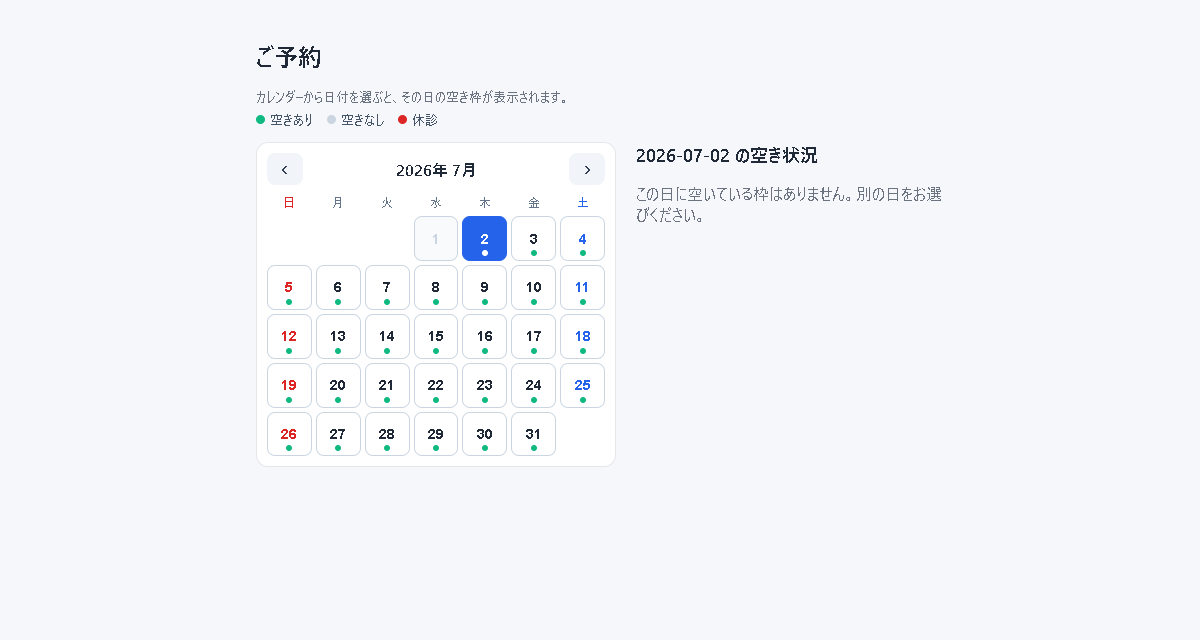
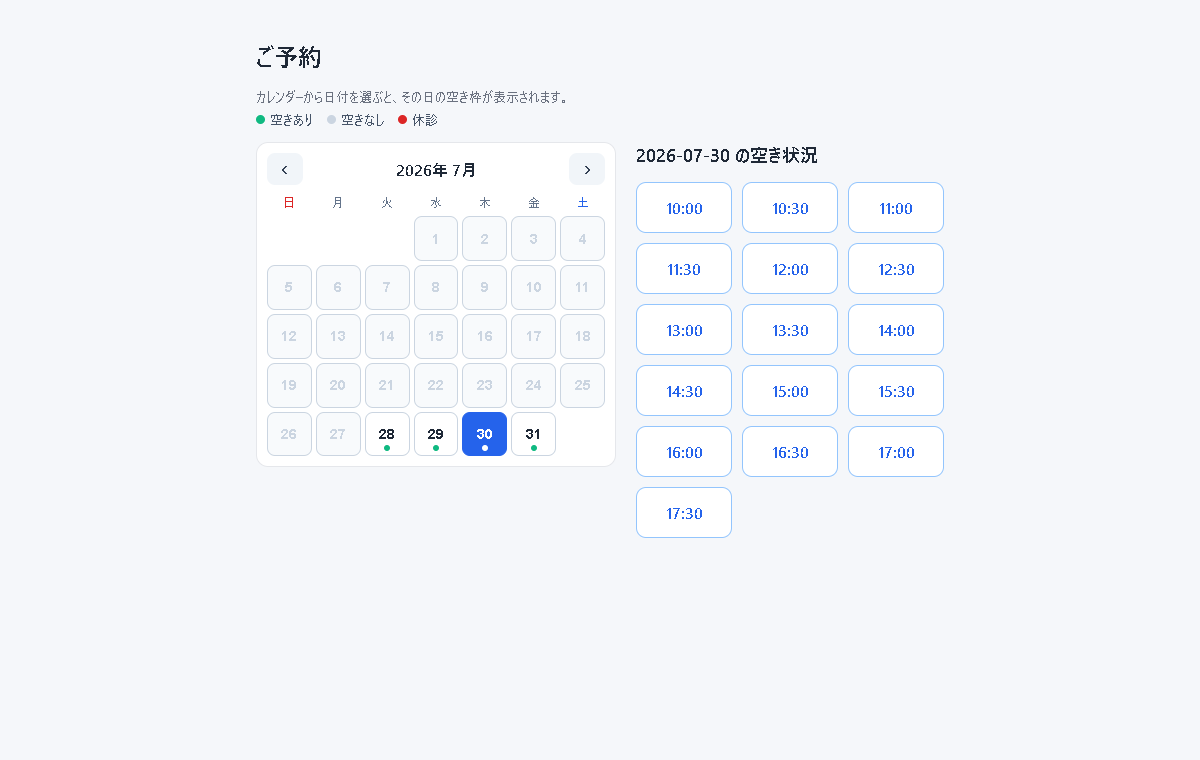
docs: README を現状に更新（予約カレンダー・構成図・デコイの説明）
- 主な機能に「公開予約カレンダー」「休業・枠ふさぎ」「多層防御」を追記
- 設定節のパス誤りを修正: src/config.php → src/core/config.php
- ディレクトリ構成を実態へ更新（api/availability.php・assets/calendar.js・
  src/core/{reservations,closures,view,honeypot}.php・src/auth/{rate_limit,totp}.php）
- public/ のデコイ（wp-login.php 等）は WordPress の残骸ではなく意図的な罠である旨を明記
- データ構造に day_overrides / login_throttle を追加
- スクリーンショットを差し替え（空き枠が並んだ状態＝デモの実際の見え方）

diff --git a/README.md b/README.md
@@ -25,12 +25,15 @@
 
 ## ✨ 主な機能
 
-- 📅 **空き枠予約** — 営業時間から自動生成した枠を表示し、希望枠を選んで予約
+- 📅 **公開予約カレンダー** — 月表示のカレンダーで **空きあり / 空きなし / 休診** が一目で分かり、日付を選ぶとその日の空き枠が出ます（空き状況は JSON API `public/api/availability.php` から取得）
+- 🗓 **空き枠予約** — 営業時間・枠の長さ・定休日・休憩・祝日の設定から枠を**毎回計算して**生成（枠自体はDBに持たない）
+- 🚫 **休業・枠ふさぎ** — 特定日の終日休業／例外営業、開いている日の中の1枠だけふさぐ、を管理カレンダーから操作
 - 🔒 **二重予約防止** — DBの `UNIQUE(date,time)` 制約で同一日時の重複を自動拒否
 - 🧾 **予約完了の控え** — 予約番号付きの完了画面（スクショ控え想定）
 - ✉ **通知メール** — 予約時にお客さま控え＋お店通知を自動送信。送信方法は **「サーバー標準（mail）」/「Gmail（SMTP）」** から選択
 - 🛠 **管理画面** — 予約一覧・キャンセル、各種設定、テスト送信
 - 🔑 **管理ログイン** — ID（メール）＋パスワード。**パスワード再設定 / ログイン情報リセット**（メールのワンタイムリンク・1時間有効・単回）。初期パスワードのままだと**警告バナー**で設定を促す
+- 🛡 **多層防御** — ログイン試行回数の制限、**2段階認証（TOTP・任意）**、デコイページ（後述）。いずれも**純PHP・追加ライブラリ不要**でレンタルサーバーでも動きます
 
 ---
 
@@ -51,24 +54,36 @@
 ```
 clinic-reservation/
 ├─ public/                 # 公開フォルダ（Webルート）
-│  ├─ index.php            #   トップ：日付選択→空き枠表示
+│  ├─ index.php            #   トップ：予約カレンダー→空き枠表示
 │  ├─ reserve.php          #   予約フォーム＆保存
 │  ├─ complete.php         #   予約完了
-│  ├─ assets/style.css
+│  ├─ api/availability.php #   空き状況API（JSON・カレンダーが呼ぶ）
+│  ├─ assets/
+│  │  ├─ style.css
+│  │  └─ calendar.js       #   公開/管理で共用するカレンダー描画
+│  ├─ hp.php ほか          #   デコイ（意図的な罠。後述「デコイページ」）
 │  └─ admin/               # 管理エリア（ログイン必須・共有ナビ）
 │     ├─ index.php         #     予約一覧・キャンセル（ダッシュボード）
 │     ├─ closures.php      #     特定日の休業/営業・個別の枠ふさぎ（カレンダー）
 │     ├─ slots.php         #     予約枠設定（営業時間/枠/定休日/休憩/祝日）
 │     ├─ mail.php          #     メール送信設定・テスト・デモモード
-│     ├─ account.php       #     管理アカウント（ID/パスワード/再設定先）
+│     ├─ account.php       #     管理アカウント（ID/パスワード/再設定先/2段階認証）
 │     ├─ reset_request.php #     パスワード/ログインのリセット要求
 │     ├─ reset.php         #     リセットのリンク先（新PW設定・初期化）
 │     └─ _nav.php          #     共有ナビバー（各ページが include）
 ├─ src/                    # 公開フォルダの外（ロジック・接続）
-│  ├─ core/                #   db.php  functions.php  settings.php  config.php
-│  ├─ auth/                #   auth.php  admin_guard.php
+│  ├─ core/
+│  │  ├─ config.php        #   初期管理アカウント等（ファイル設定）
+│  │  ├─ db.php            #   接続・テーブル自動作成
+│  │  ├─ functions.php     #   空き枠の計算ロジック（枠はDBに持たず毎回導出）
+│  │  ├─ reservations.php  #   予約モデル（薄いデータ層）
+│  │  ├─ closures.php      #   休業・枠ふさぎモデル
+│  │  ├─ settings.php      #   設定（DB保存）
+│  │  ├─ view.php          #   共有レイアウト（head/foot の partial）
+│  │  └─ honeypot.php      #   デコイの記録・自動ブロック（DB非依存の単独モジュール）
+│  ├─ auth/                #   auth.php  admin_guard.php  rate_limit.php  totp.php
 │  └─ mail/                #   notify.php  lib/PHPMailer/（※Git管理外。bash scripts/fetch-phpmailer.sh）
-├─ data/                   # DB実体・holidays.csv（公開フォルダ外・自動生成）
+├─ data/                   # DB実体・holidays.csv・ログ（公開フォルダ外・自動生成）
 ├─ docker/Dockerfile
 ├─ docker-compose.yml
 └─ scripts/fetch-phpmailer.sh
@@ -112,7 +127,7 @@ docker compose up -d --build
 
 設定は **2か所** に分かれています（役割が違います）。
 
-### 1. 初期管理アカウント — `src/config.php`（ファイル）
+### 1. 初期管理アカウント — `src/core/config.php`（ファイル）
 ```php
 define('INITIAL_ADMIN_ID',       'admin@example.com'); // 初期ログインID
 define('INITIAL_ADMIN_PASSWORD', 'changeme');          // 初期パスワード（平文・このまま使用）
@@ -150,6 +165,14 @@ GitHub Actions でデプロイする場合、リポジトリの Secret **`ADMIN_
 - **総当たり対策**: ログイン失敗が続くと送信元IPを一時ロック（既定 5回/15分 → 15分）。成功で解除。
 - **2段階認証（TOTP・任意）**: 管理画面「アカウント」で有効化すると、ログイン時に認証アプリ（Google Authenticator 等）の6桁コードを要求。**リカバリコード**付き、緊急復旧（`config.php` の `FORCE_INITIAL_ADMIN`）で解除可。純PHP実装で追加ライブラリ不要。
 
+### 🪤 デコイページ（意図的な「罠」）
+
+`public/` の中に `wp-login.php` / `xmlrpc.php` / `wp-admin/` / `administrator/` / `phpmyadmin/` があります。**これは WordPress の残骸ではなく、意図的に置いたデコイ**です。このアプリは WordPress を一切使っていません。
+
+自動化された攻撃ツールは、まずこうした「定番パス」を総当たりで探します。デコイはそのアクセスを記録し、繰り返す相手を一定時間ブロックします。実装は **DB に依存しない単独モジュール `src/core/honeypot.php`** で、書き込み可能な `data/` さえあれば動くため、レンタルサーバーへそのまま持ち込めます。
+
+不要なら `public/` からデコイのファイル／ディレクトリを削除するだけで無効化できます（本体の動作には影響しません）。
+
 ---
 
 ## ✉ メール送信
@@ -171,9 +194,11 @@ GitHub Actions でデプロイする場合、リポジトリの Secret **`ADMIN_
 | テーブル | 用途 |
 |---|---|
 | `reservations` | 予約（日付・時刻・氏名・電話・メール・受付日時、`UNIQUE(date,time)`） |
-| `blocked_slots` | 休診・ブロック枠 |
-| `settings` | 店名・通知・送信方法・管理アカウント（key/value） |
+| `blocked_slots` | 開いている日の中の「1枠だけふさぐ」指定 |
+| `day_overrides` | 特定日の終日指定（`closed`=休業 / `open`=例外営業） |
+| `settings` | 店名・通知・送信方法・管理アカウント・2段階認証（key/value） |
 | `auth_tokens` | リセット用トークン（ハッシュ・期限・使用済みフラグ） |
+| `login_throttle` | ログイン失敗の記録（総当たり対策の一時ロック） |
 
 すべて初回アクセス時に自動作成されます。
 
